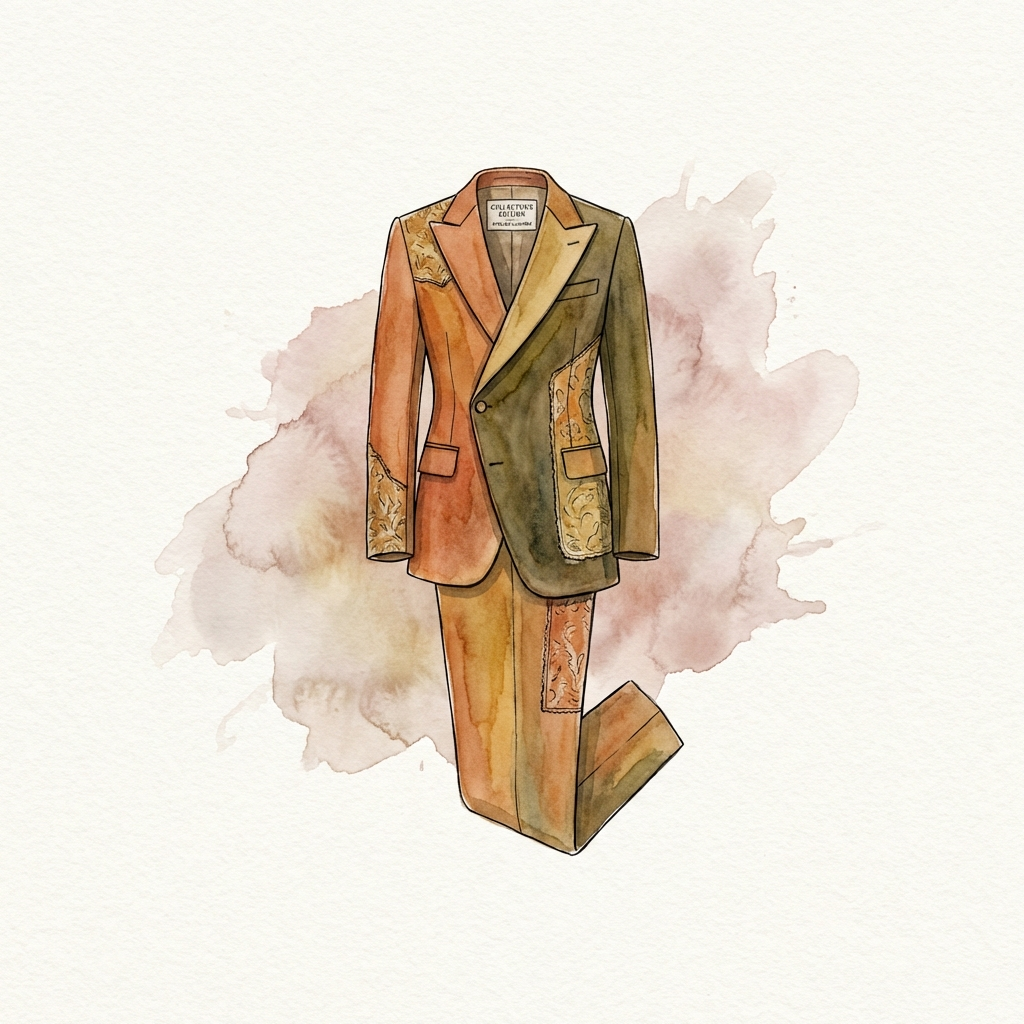
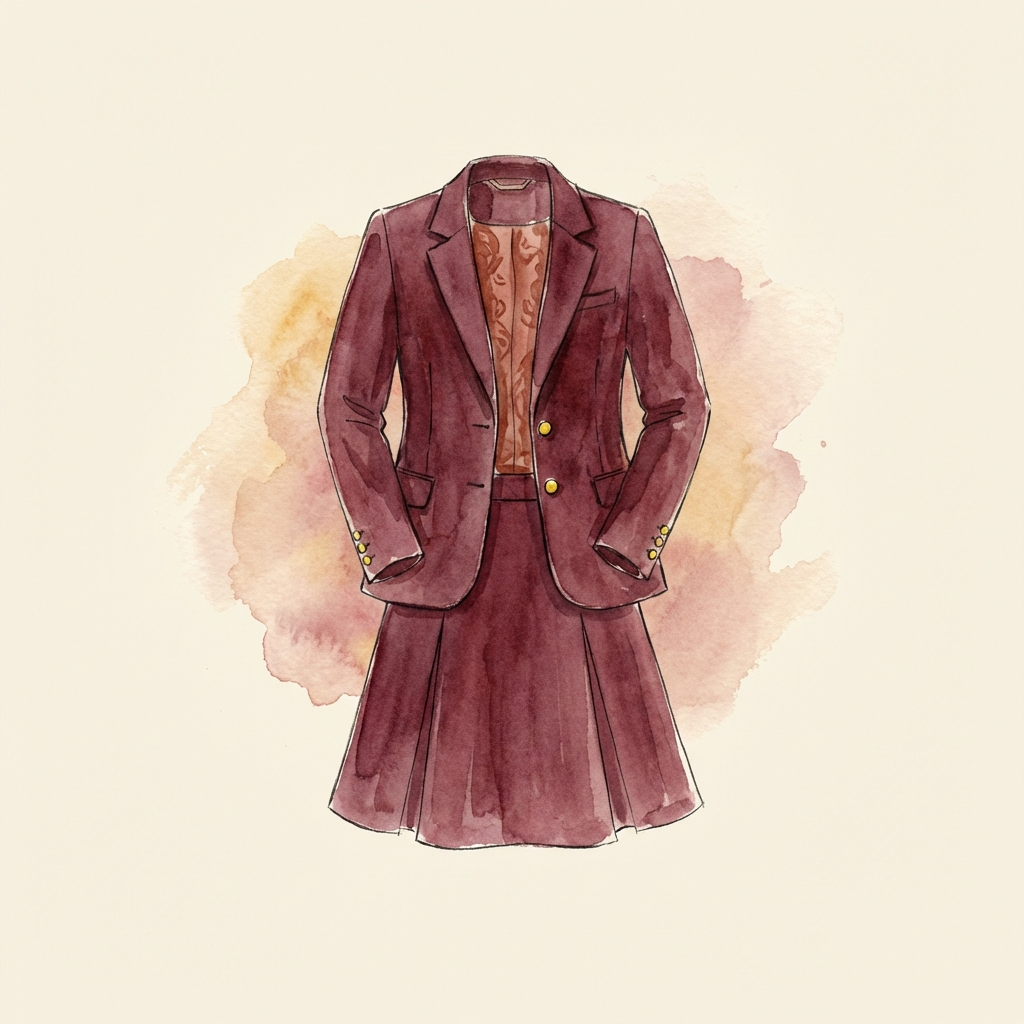
fix(assets): Regenerate 4 images with improved prompts
- emma_clothes/restored: Fixed male suit → women's beige blazer set
- emma_clothes/reforged: Fixed weird design → burgundy women's suit
- ring_01/restored: Removed "Eternal Love" text
- painting_01/reforged: Removed "MASTERPIECE COLLECTION" text

Updated prompts to explicitly avoid AI-generated text with
"NO TEXT NO LABELS NO TAGS" instructions.

Changed region(s): [[0.1562, 0.125, 0.8438, 0.8438], [0.875, 0.0625, 0.9062, 0.0938], [0.7812, 0.375, 0.8125, 0.4062]]

diff --git a/scripts/generate_assets.py b/scripts/generate_assets.py
@@ -99,7 +99,7 @@ ITEMS = {
         "category": "首饰",
         "states": {
             "default": ("蒙尘的戒指", "a dusty tarnished silver ring, covered in fine dust, showing weight and craftsmanship beneath grime"),
-            "restored": ("抛光银戒", "a polished silver ring with mirror finish, delicate engraving visible on inner band"),
+            "restored": ("抛光银戒", "a polished platinum wedding band with mirror finish, simple elegant design, NO TEXT NO ENGRAVING NO WORDS"),
             "reforged": ("名门传家宝", "an antique noble family heirloom ring with precious gemstone, century-old intricate craftsmanship"),
         }
     },
@@ -108,7 +108,7 @@ ITEMS = {
         "states": {
             "default": ("褪色的油画", "a faded landscape oil painting in worn gilded frame, colors washed out, dusty surface"),
             "restored": ("修复的风景画", "a restored landscape oil painting, vivid colors revealed, delicate brushwork, clean frame"),
-            "reforged": ("失落大师真迹", "a masterpiece landscape painting in museum-quality frame, remarkable brushwork, precious artwork"),
+            "reforged": ("失落大师真迹", "a masterpiece landscape painting in ornate gilded baroque frame, vivid sunset colors, remarkable impressionist brushwork, NO TEXT NO LABELS NO PLAQUE"),
         }
     },
     "vase_01": {
@@ -155,8 +155,8 @@ ITEMS = {
         "category": "服饰",
         "states": {
             "default": ("名牌职业套装", "a designer professional suit jacket and skirt, high-end fashion, quality fabric"),
-            "restored": ("干洗职业套装", "a freshly dry-cleaned designer suit, crisp pressed fabric, elegant business wear"),
-            "reforged": ("设计师定制款", "a rare designer custom-made suit, haute couture piece, fashion collectible"),
+            "restored": ("干洗职业套装", "a freshly pressed women's professional blazer and pencil skirt set, elegant beige fabric, crisp clean lines, female business attire, NO TEXT NO LABELS NO TAGS"),
+            "reforged": ("设计师定制款", "an elegant women's designer blazer and skirt suit in deep burgundy, silk lining visible, gold button details, luxury female fashion, NO TEXT NO LABELS"),
         }
     },
     "emma_skincare": {
